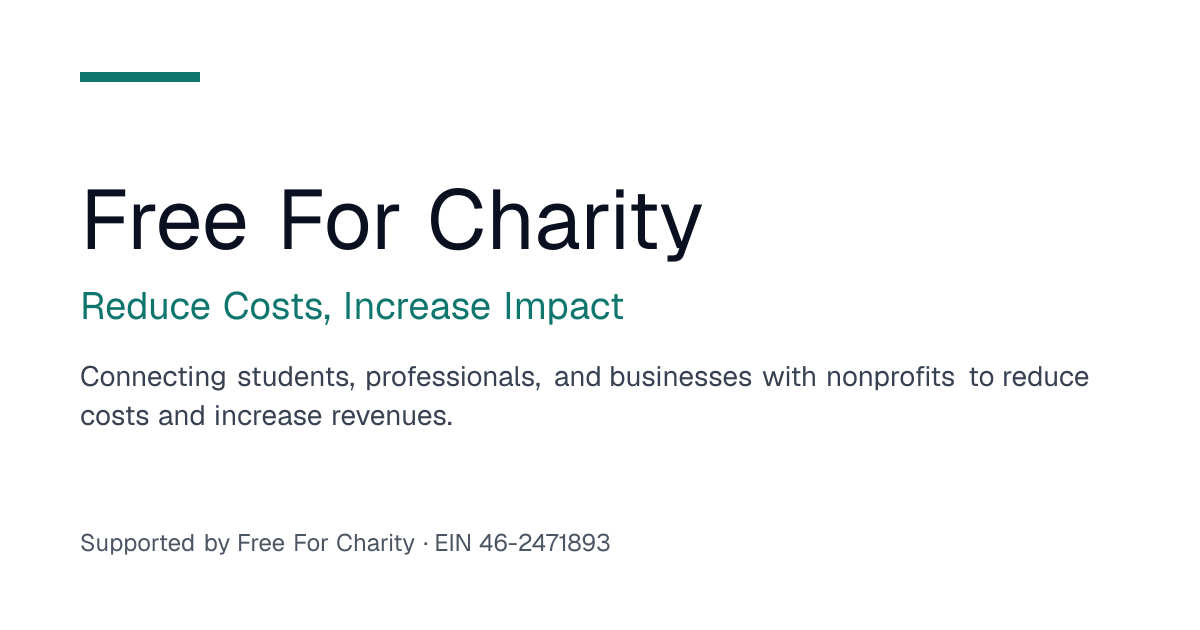
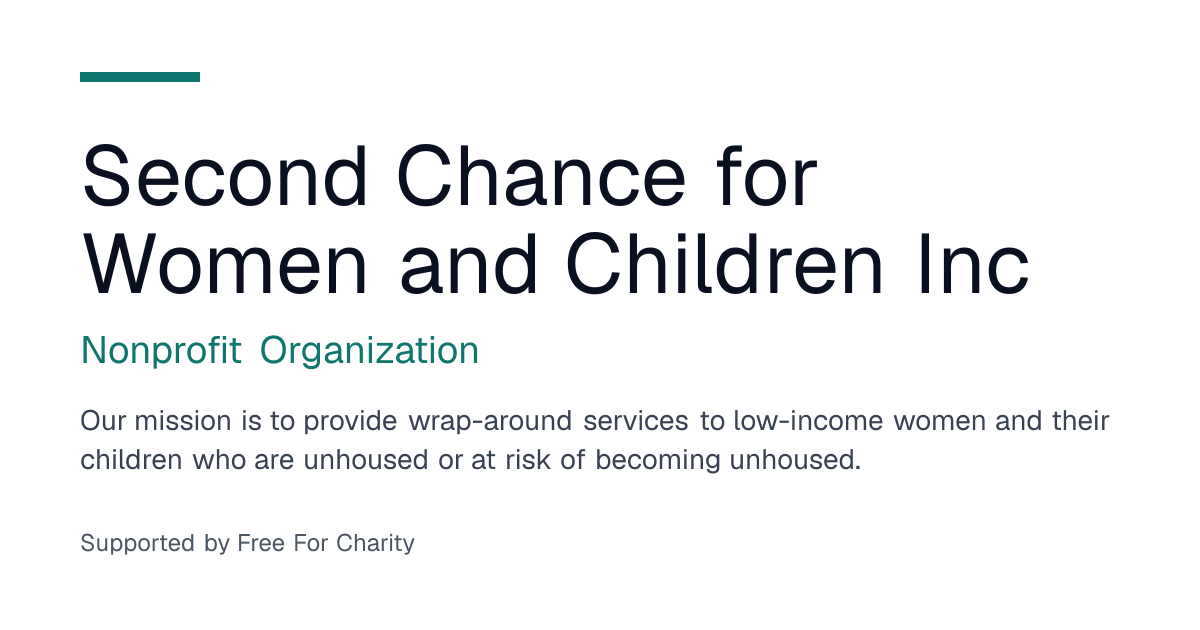
fix: drop FFC's GTM container and regenerate the social card
- analytics.config.ts: GTM_ID was Free For Charity's own container, so
  the charity's visitor analytics would flow to FFC. Empty until the
  charity's container is provisioned (check:rebrand now passes).
- public/og-card.png still showed FFC's name, tagline and EIN; it is
  regenerated from siteConfig. The footnote now leaves out an empty EIN.

Changed region(s): [[0.0617, 0.2111, 0.925, 0.754], [0.3392, 0.8444, 0.5242, 0.8746]]

diff --git a/__tests__/scripts/generate-og-card.test.ts b/__tests__/scripts/generate-og-card.test.ts
@@ -60,6 +60,17 @@ describe('social card palette', () => {
     expect(evaluate("m.relativeLuminance('ffffff')")).toBeCloseTo(1, 5)
   })
 
+  // A pending EIN is empty: the footnote drops the EIN rather than baking a
+  // dangling "EIN " into the committed PNG.
+  it('leaves an empty EIN out of the footnote', () => {
+    const config = (ein: string) =>
+      JSON.stringify({ ein, supportedBy: { name: 'Free For Charity' } })
+    expect(evaluate(`m.cardFootnote(${config('')})`)).toBe('Supported by Free For Charity')
+    expect(evaluate(`m.cardFootnote(${config('12-3456789')})`)).toBe(
+      'Supported by Free For Charity · EIN 12-3456789'
+    )
+  })
+
   // Importing the module must not render or write anything: the test above
   // would otherwise overwrite public/og-card.png on every run.
   it('does not render when imported', () => {

diff --git a/src/lib/analytics.config.ts b/src/lib/analytics.config.ts
@@ -23,4 +23,6 @@
  * The explicit `: string` matters: without it TypeScript narrows the constant
  * to its literal value and rejects the empty-string comparisons the guards use.
  */
-export const GTM_ID: string = 'GTM-TQ5H8HPR'
+// Empty until this charity's own container is provisioned (workflows 505/503):
+// the template ships the supporting organization's own container id.
+export const GTM_ID: string = ''
